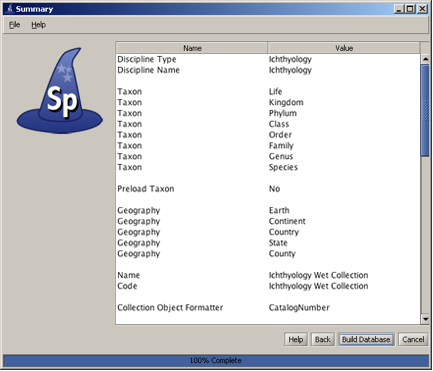
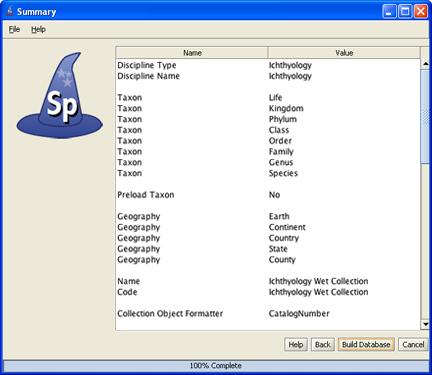
git-svn-id: https://svn.code.sf.net/p/specify/code/trunk/Specify@6829 ce9bf4bf-376f-1848-a496-a1c9fe3b1a39

diff --git a/help/SpecifyHelp/Configuration/institution_hierarchy.html b/help/SpecifyHelp/Configuration/institution_hierarchy.html
@@ -61,12 +61,12 @@
 <p>In the Discipline sub form click the <img src="../../images/add.png" width="16" height="16" /> (add) button to add a Discipline.</p>
 <p>A Discipline Wizard will walk you through adding not only a Discipline, but a Collection within the Discipline as well as Taxon and Geography Tree Definitions and nodes (names of Taxa and Geographical locations) and Catalog and Accession number. Each of these windows is explained below.</p>
 <p>&nbsp;</p>
-<p align="center" class="style1"><img src="../../images/window10.png" alt="10" width="433" height="358" /></p>
+<p align="center" class="style1"><img src="../../images/window9.png" width="432" height="362" /></p>
 <p align="center" class="imgcaption">Add a Discipline </p>
 <p align="left"><strong><u>Discipline</u></strong></p>
 <p align="left">Choose a taxonomic <strong>Discipline Type</strong> from the drop-down menu. Specify uses this information to load the correct default data entry Forms, Trees and schema (tables and fields) within Specify.</p>
 <p align="left">The <strong>Name</strong> will display within Specify and can be anything you wish. It can be queried and used in reports. It can also be edited from within Specify.</p>
-<p align="center"><img src="../../images/window11.png" alt="11" width="433" height="358" /></p>
+<p align="center"><img src="../../images/window10.png" width="432" height="362" /></p>
 <p align="center" class="imgcaption">Create a Tree Definition for the Taxon tree</p>
 <p align="left">This table will create the tree definition for the Taxon tree. The Taxon tree operates at the Discipline level and can be used by all Collections within the Discipline you created in the last window. </p>
 <ul>
@@ -89,11 +89,11 @@
   <br />
   <li><strong align="left">Full Name Order</strong> will reverse the full name as shown in the <strong>Full Name Example</strong>.</li>
 </ul>
-<p align="center"><img src="../../images/window12.png" alt="12" width="433" height="358" /></p>
+<p align="center"><img src="../../images/window11.png" width="432" height="362" /></p>
 <p align="center" class="imgcaption">Load Taxonanomic authority file</p>
 <p>The Specify Discipline Wizard not only defines the Taxon tree but optionally also loads an authority file for your Discipline. <span class="style2">This authority file was created using data from the </span> Catalog of Life Project. If you choose to load the data into your tree when you open Specify and choose the <em>Tree</em> tab from the task bar, and Taxon tree from your side bar you will see a Taxon tree  with hundreds of taxon nodes included. Then, when adding Collection Objects into your database you can simply choose a taxa from the Taxon field rather than adding each individually as needed.</p>
 <p>&nbsp;</p>
-<p align="center"><img src="../../images/window13.png" alt="13" width="433" height="358" /></p>
+<p align="center"><img src="../../images/window12.png" width="432" height="362" /></p>
 <p align="center" class="imgcaption">Add Geographical authority file</p>
 <p align="left"> The Geography tree operates at the Discipline level and  is used by all Collections within the Discipline. </p>
 <ul>
@@ -119,20 +119,20 @@
   <br />
 </ul>
 <p class="style2">The Wizard will automatically load data for the Geography tree, including Continents, Countries, and States throughout the world as well as Counties within the United States. Data for the Geography tree was  converted from the Getty Thesaurus of Geographic Names.</p>
-<p align="center" class="style2"><img src="../../images/window14.png" alt="14" width="433" height="358" /></p>
+<p align="center" class="style2"><img src="../../images/window13.png" width="432" height="362" /></p>
 <p align="center" class="imgcaption">Add a Collection</p>
 <p align="left"><u><strong><a name="wizard_collection" id="wizard_collection2"></a>Collection</strong></u><strong> </strong></p>
 <p align="left">Enter the <strong>Name</strong> and internationally recognized Collection <strong>Code</strong> to create a Collection within the Discipline.  This is the name that will appear within Specify on the Collection form and can be queried and used in reports. </p>
 <p align="left">The Code should be your standard collections community assigned code for your collection. This Code will be used in data export and web interfaces in upcoming releases of Specify.</p>
 <p align="left">&nbsp;</p>
-<p align="center"><img src="../../images/window15.png" alt="15" width="433" height="358" /></p>
+<p align="center"><img src="../../images/window14.png" width="432" height="362" /></p>
 <p align="center" class="imgcaption">Catalog Number format</p>
 <p>Specify is able to accept data for  collection objects or observations without assigning a Catalog Number. But when Catalog Numbers are used, they must be unique for each lot, specimen or observation.  Many collections routinely assign catalog numbers to  incoming specimens, perhaps as part of the accessioning process. These numbers may require a format with specific sections for data such as Institution Code and year or they may simply use an incrementing number.</p>
 <p>Catalog Numbers can either be unique to each Collection, shared by several or be used throughout the Institution. The Catalog Number chosen at this time will not affect where it is used relative to other Collections, this will be configured from within the Specify application.</p>
 <p>Collections that do not use a specific format for their Catalog Number may choose 'None' and the Catalog Number will remain a text field on the forms where it appears. </p>
 <p>Several formats are also available within this drop-down menu list.</p>
 <p>To create your own format choose 'Create'. This will open the Field Formatting Editor. Please click <a href="../Security/Field_Format_Editor.html">HERE</a> to open a help page for the Field Formatting Editor. </p>
-<p align="center"><img src="../../images/window7.png" alt="7" width="433" height="358" /></p>
+<p align="center"><img src="../../images/window4.png" width="432" height="362" /></p>
 <p align="center" class="imgcaption">Acccession Number format </p>
 <p align="left"><strong><em>Note:</em></strong> If you chose to manage your Accessions at the institutional level you will NOT see this window.</p>
 <p align="left">Accession Numbers may require a format or may simply use a number. Choose None to leave the Accession Number as a text field on the Accession form. </p>
@@ -154,20 +154,20 @@
 <p>Click the<img src="../../images/add.png" width="16" height="16" />(add) button to add a Collection. </p>
 <p>A Collection Wizard will step you through the process of adding a collection as well as a Catalog Number format and Accession format (if applicable).</p>
 <p>&nbsp;</p>
-<p align="center" class="style2"><img src="../../images/window14.png" alt="14" width="433" height="358" /></p>
+<p align="center" class="style2"><img src="../../images/window13.png" width="432" height="362" /></p>
 <p align="center" class="imgcaption">Add a Collection</p>
 <p align="left"><u><strong><a name="wizard_collection" id="wizard_collection"></a>Collection</strong></u><strong> </strong></p>
 <p align="left">Enter the <strong>Name</strong> and internationally recognized Collection <strong>Code</strong> to create a Collection within the Discipline.  This is the name that will appear within Specify on the Collection form and can be queried and used in reports. </p>
 <p align="left">The Code should be your standard collections community assigned code for your collection. This Code will be used in data export and web interfaces in upcoming releases of Specify.</p>
 <p align="left">&nbsp;</p>
-<p align="center"><img src="../../images/window15.png" alt="15" width="433" height="358" /></p>
+<p align="center"><img src="../../images/window14.png" width="432" height="362" /></p>
 <p align="center" class="imgcaption">Catalog Number format</p>
 <p>Specify is able to accept data for  collection objects or observations without assigning a Catalog Number. But when Catalog Numbers are used, they must be unique for each lot, specimen or observation.  Many collections routinely assign catalog numbers to  incoming specimens, perhaps as part of the accessioning process. These numbers may require a format with specific sections for data such as Institution Code and year or they may simply use an incrementing number.</p>
 <p>Catalog Numbers can either be unique to each Collection, shared by several or be used throughout the Institution. The Catalog Number chosen at this time will not affect where it is used relative to other Collections, this will be configured from within the Specify application.</p>
 <p>Collections that do not use a specific format for their Catalog Number may choose 'None' and the Catalog Number will remain a text field on the forms where it appears. </p>
 <p>Several formats are also available within this drop-down menu list.</p>
 <p>To create your own format choose 'Create'. This will open the Field Formatting Editor. Please click <a href="../Security/Field_Format_Editor.html">HERE</a> to open a help page for the Field Formatting Editor. </p>
-<p align="center"><img src="../../images/window7.png" alt="7" width="433" height="358" /></p>
+<p align="center"><img src="../../images/window5.png" width="432" height="362" /></p>
 <p align="center" class="imgcaption">Acccession Number format </p>
 <p align="left"><strong><em>Note:</em></strong> If you chose to manage your Accessions at the institutional level you will NOT see this window.</p>
 <p align="left">Accession Numbers may require a format or may simply use a number. Choose None to leave the Accession Number as a text field on the Accession form. </p>
@@ -176,7 +176,7 @@
 <p align="left">AccessionNumberByYear (2009-AA-AAA) The year will appear automatically in the first section (2009) of the format, and can also be manually edited. The 'A' sections of the format are alphanumeric and accept both alphabet characters <em>a</em> through <em>z</em> and numbers. This format offers two alphanumeric sections, the first is two characters in length and the second is three characters in length.</p>
 <p align="left">AccessionStringFormatter (AAAAAA) This is an alphanumeric format that accepts  both alphabet characters <em>a</em> through <em>z</em> and numbers. The Accession number would be seven characters in length.</p>
 <p align="left">To create your own format choose 'Create'. This will open the Field Formatting Editor. Please click <a href="../Security/Field_Format_Editor.html">HERE</a> to open a help page for the Field Formatting Editor. </p>
-<p align="center"><img src="../../images/collection_summar.png" width="433" height="371" /></p>
+<p align="center"><img src="../../images/collection_summary.png" width="433" height="371" /></p>
 <p align="center" class="imgcaption">Sumary Window</p>
 <p align="left">Congratulations! You have finished the Specify Collection Wizard. This last screen displays all the data that has been created using the information provided in the preceding windows. If  edits are required simply click the <em>Back</em> button until the desired window displays and re-enter the information.</p>
 <p>&nbsp;</p>

diff --git a/help/SpecifyHelp/Prefs/GoogleEarth.html b/help/SpecifyHelp/Prefs/GoogleEarth.html
@@ -22,7 +22,7 @@
 <p>Specify  plots locality records (or associated Collection Objects or Collecting Events) in Google Earth based on latitude and longitude data provided in the locality form. All associated data is stored in a KML file which is launched within Google Earth upon clicking the Google Earth icon on the locality form, or dropping a Record Set on Google Earth in the Plugins Sidebar. </p>
 <p>Collection Object information including the Collector, Catalog Number and Taxonomy is shown within the Google Earth  information balloon. Specify also allows the insertion of two web service links for inserting additional information within the information balloon. </p>
 <p>Google Earth must be installed on the local machine for the Specify Google Earth integration to work.</p>
-<table width="100%"border="1" cellpadding="6" cellspacing="2">
+<table width="100%"border="0" cellpadding="6" cellspacing="2">
   <tr>
     <td width="12%" valign="bottom" ><div align="left"><u><strong>GE Preference</strong></u></div></td>
     <td width="78%" valign="bottom" ><div align="left"><u><strong>Result</strong></u></div></td>
